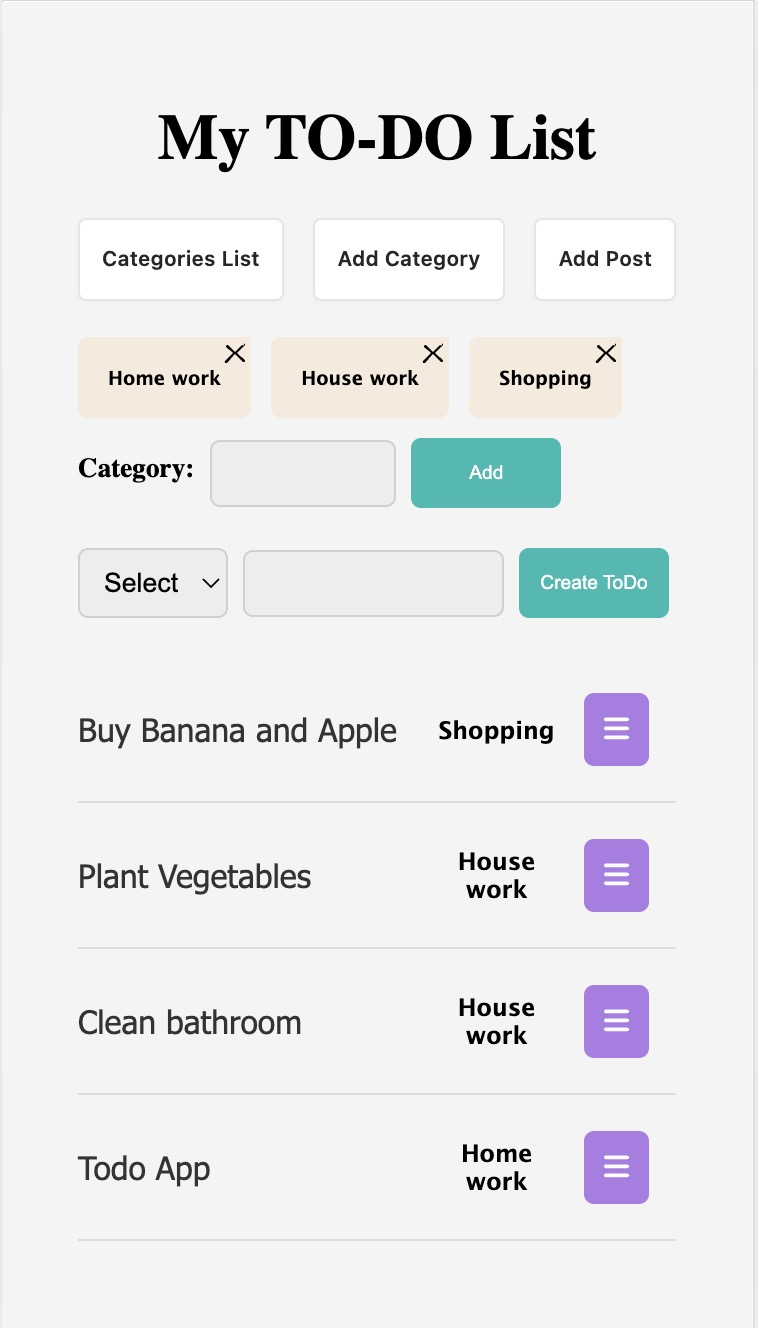
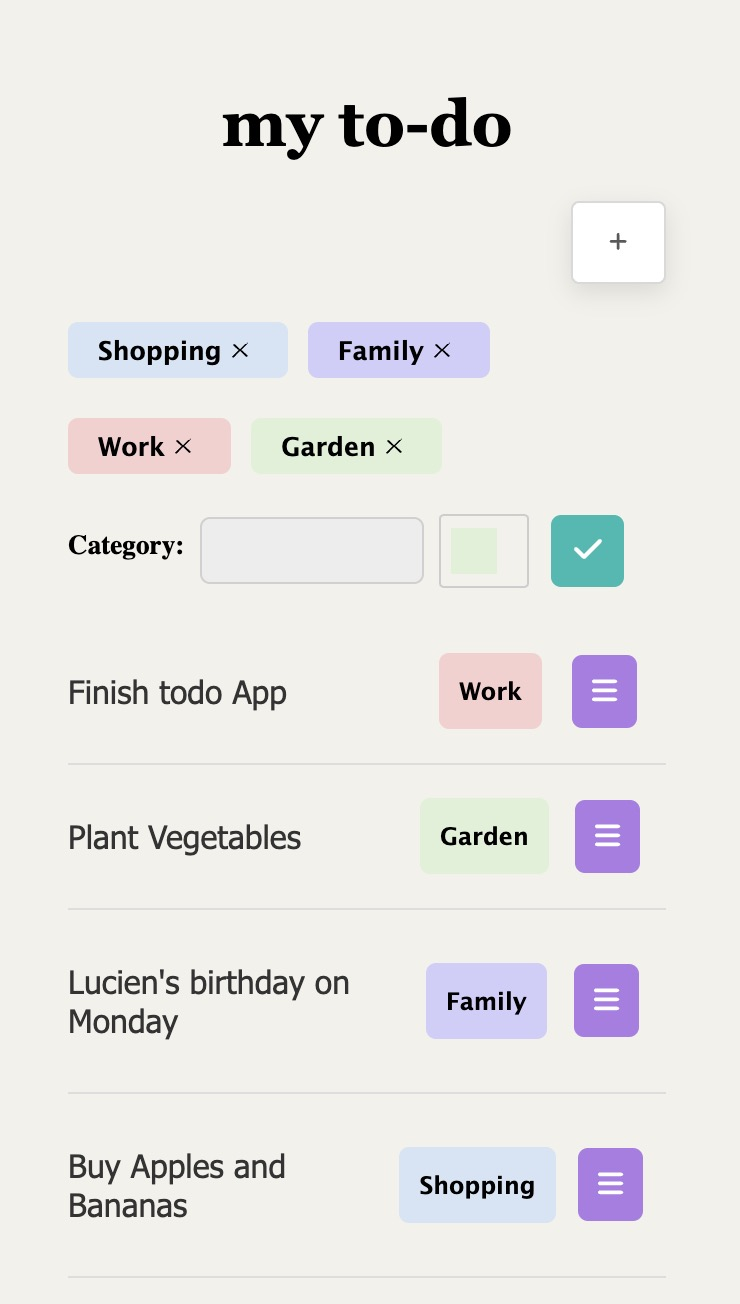
readme update

diff --git a/README.md b/README.md
@@ -53,6 +53,8 @@ The purpose of this project includes:
 
 ## <img src="/front-end/src/assets/responsive.jpg" alt="responsive image" width="200"/>
 
+## <img src="/front-end/src/assets/responsive2.jpg" alt="responsive image" width="200"/>
+
 ## Challenges
 
 - **Edit Task in Place**: One of the most challenging parts was allowing users to edit their task content in place, rather than navigating to another page. So I implemented the updating data logic directly on the spot where the task item is displayed. So, when a user clicks the edit icon, it switches to an editable form in the same spot. This provided a more user-friendly experience.
